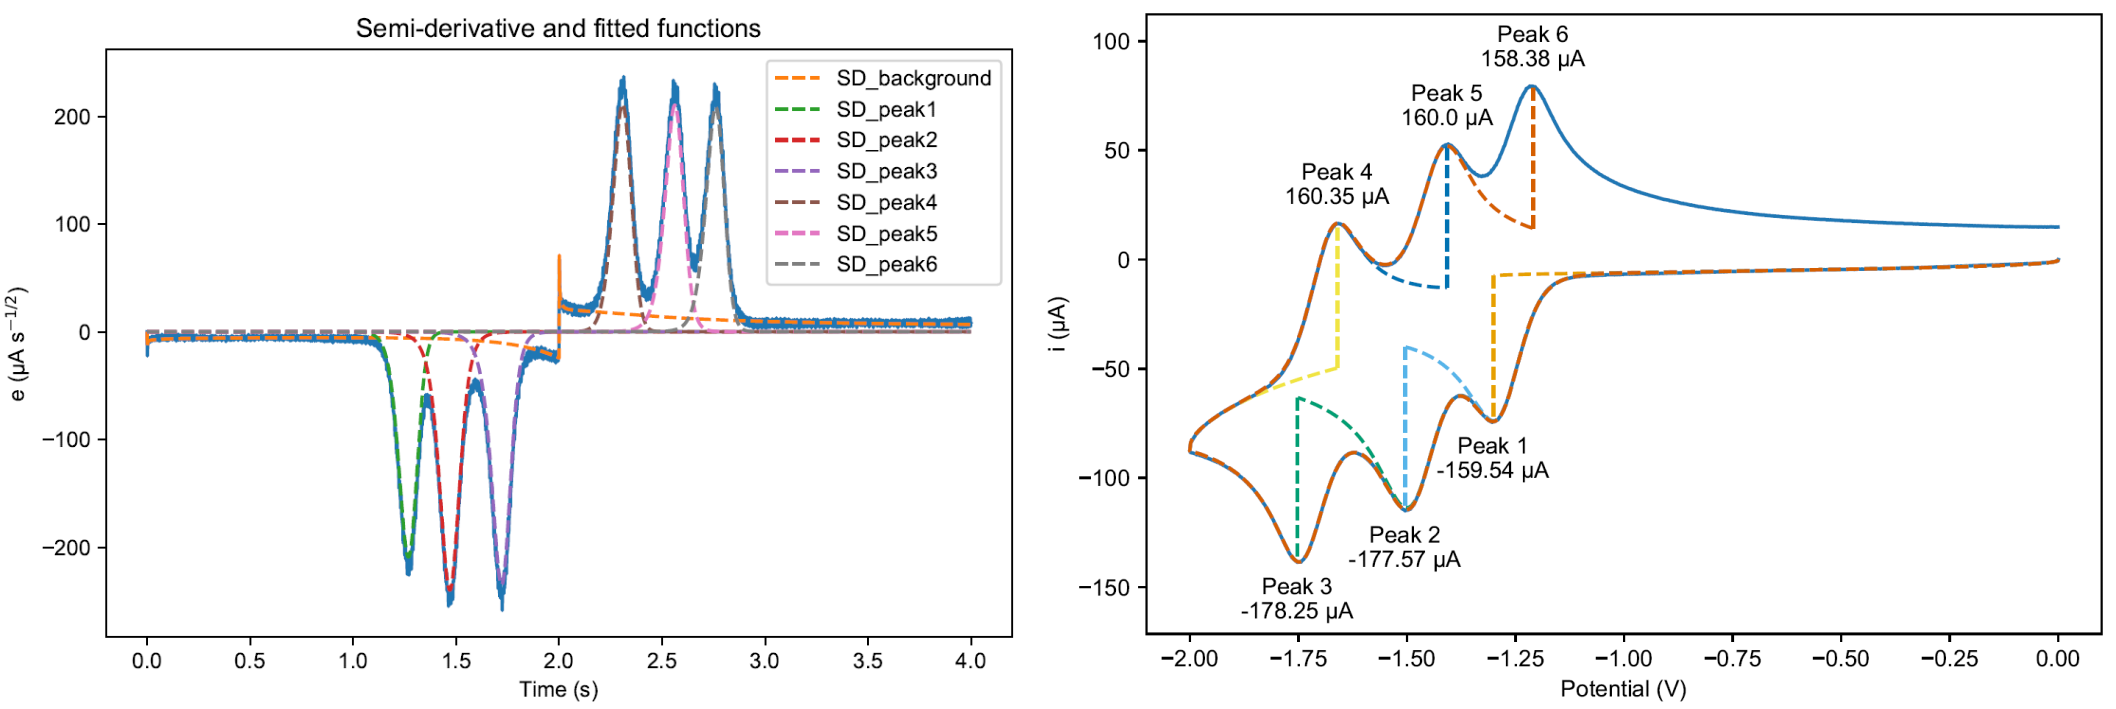
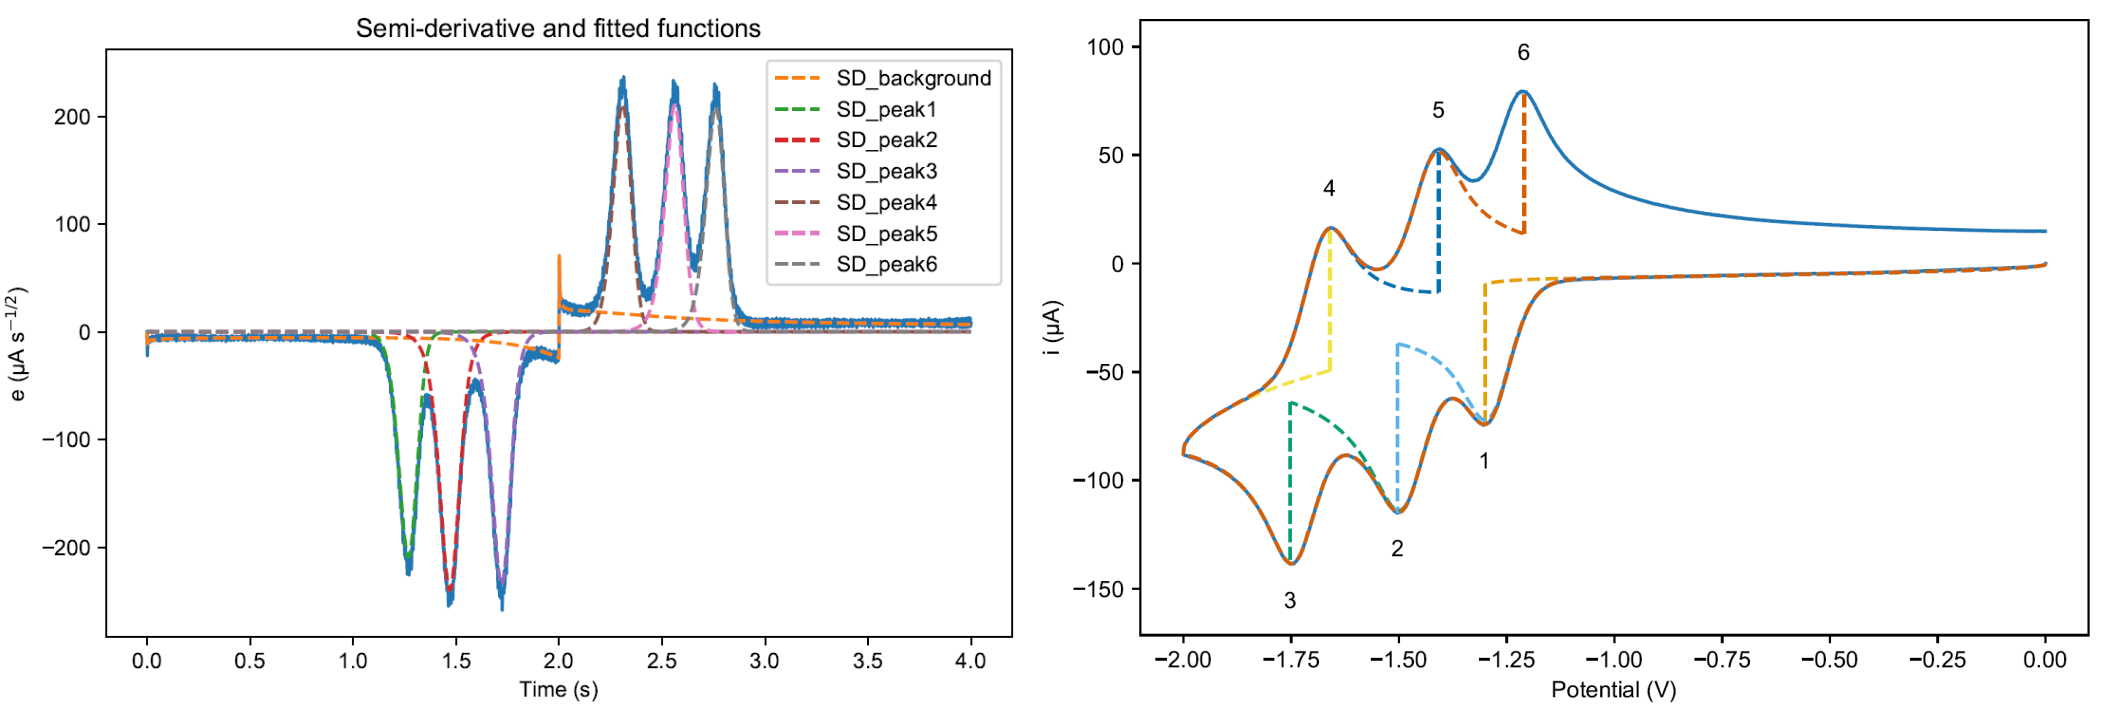
added manual peak picking and adjusted automatic peak detection, added E_p values to summary pdf, adjusted pdf report formatting, fixed about section hyperlink, misc. fixes and formatting on output reports

diff --git a/source/fitter.py b/source/fitter.py
@@ -1,11 +1,14 @@
-import os
+import time as time_module
 import numpy as np
 import pandas as pd
 import matplotlib.pyplot as plt
+import library
+from PyQt5.QtWidgets import QApplication
 from lmfit import models, Parameters
 from scipy.signal import find_peaks
 from scipy.special import loggamma, betaln, gamma
-from library import build_piecewise, CV, diff_int, pdf_summary, xlsx_summary
+
+# from library import build_piecewise, CV, diff_int, pdf_summary, peak_finder_auto, peak_finder_manual, xlsx_summary
 
 plt.rcParams["font.family"] = "sans-serif"
 plt.rcParams["font.sans-serif"] = ["Arial"]
@@ -14,7 +17,7 @@ plt.rcParams["font.sans-serif"] = ["Arial"]
 def fitter(userinput_dict):
     # CV file reading and data preparation
     print(f"\nReading CV data: {userinput_dict['filename']}")
-    cv = CV(userinput_dict)
+    cv = library.CV(userinput_dict)
     scan_rate = (cv.dataframe["E"][100] - cv.dataframe["E"][0]) / cv.dataframe["Time"][
         100
     ]
@@ -23,7 +26,7 @@ def fitter(userinput_dict):
     time = np.array(cv.dataframe["Time"])
     potential = np.array(cv.dataframe["E"])
     current = np.array(cv.dataframe["I"])
-    transform = diff_int(time, current, 1 / 2)
+    transform = library.diff_int(time, current, 1 / 2)
 
     # setup list of t discontinuities in E'(t) for CPE summation func
     t_discs = [0]
@@ -35,8 +38,8 @@ def fitter(userinput_dict):
         CPE_current = np.zeros_like(time)
         if any(key.startswith("Q") for key in params):
             # create piecewise constant Q and alpha arrays
-            Q_t = build_piecewise(time, t_discs, params, "Q")
-            alpha_t = build_piecewise(time, t_discs, params, "alpha")
+            Q_t = library.build_piecewise(time, t_discs, params, "Q")
+            alpha_t = library.build_piecewise(time, t_discs, params, "alpha")
 
             n_seg = len(t_discs) - 1
             k = 1
@@ -62,7 +65,7 @@ def fitter(userinput_dict):
         if "i0" in params:
             bkg_electrolysis += params["i0"] * np.exp(params["k"] * potential)
 
-        return diff_int(time, bkg_electrolysis + CPE_current, 1 / 2)
+        return library.diff_int(time, bkg_electrolysis + CPE_current, 1 / 2)
 
     # create params for background func
     sign = (
@@ -86,7 +89,7 @@ def fitter(userinput_dict):
         subset_params.add(
             "i0", value=sign * 1e-3, min=min(i0_params), max=max(i0_params)
         )
-        subset_params.add("k", value=sign * 1, min=min(k_params), max=max(k_params))
+        subset_params.add("k", value=sign * 1e-3, min=min(k_params), max=max(k_params))
 
     # subset creation
     idx_range1 = int(0.1 / cv.V_per_index)
@@ -122,18 +125,22 @@ def fitter(userinput_dict):
     model = models.Model(SD_background)
     params = subset_result.params
 
-    # peak detection and model update for each peak
-    width_param = int(0.06 / cv.V_per_index)
-    SD_peaks = find_peaks(
-        abs(transform),
-        width=width_param,
-        prominence=2,
-        height=max(abs(transform)) * 0.05,
-    )[
-        0
-    ]  # abs used to find -ve peaks and +ve peaks
+    # PEAK DETECTION
+    if userinput_dict["peak_detection"] == "Automatic":
+        bkg = SD_background(time, **params)
+        width_param = int(0.03 / cv.V_per_index)
+        SD_peaks = library.peak_finder_auto(transform, bkg, width_param)
+        print(f"{len(SD_peaks)} peaks detected")
 
-    # create empty peak model for scan
+    else:
+        SD_peaks = library.peak_finder_manual(cv, transform)
+
+        # prevents fitt.py from continuing while user selecting peaks
+        while not library.manual_picking_finished:
+            QApplication.processEvents()
+            time_module.sleep(0.01)
+
+    # MODEL UPDATE FROM PEAK LIST
     skew_0 = 0
     expon_0 = 1.5
     peak_counter = 0
@@ -173,7 +180,7 @@ def fitter(userinput_dict):
             peak_counter += 1
         except:
             pass
-    print(f"{len(SD_peaks)} peaks detected")
+
     print("Fitting total model")
     result = model.fit(transform, params, x=time, max_nfev=500, method="least_squares")
 
@@ -199,7 +206,7 @@ def fitter(userinput_dict):
     baseline_df["I"] = cv.dataframe["I"]
 
     for comp in list(components.keys())[::-1]:
-        current_comp = diff_int(time, components[comp], -1 / 2)
+        current_comp = library.diff_int(time, components[comp], -1 / 2)
         comp_name = comp.removeprefix("SD_")
         comp_name = comp_name.removesuffix("_")
         df.insert(0, comp_name, current_comp)
@@ -207,21 +214,21 @@ def fitter(userinput_dict):
     # Baseline creation for each peak
     b_counter = 1
     ip_list = []
+    Ep_list = []
     for comp in components:
         if "background" in comp:
             continue
         baseline = result.best_fit - components[comp]
-        baseline = diff_int(time, baseline, -1 / 2)
+        baseline = library.diff_int(time, baseline, -1 / 2)
         # removes baseline after peak of interest
-        idx_p = np.argmax(abs(diff_int(time, components[comp], -1 / 2)))
+        idx_p = np.argmax(abs(library.diff_int(time, components[comp], -1 / 2)))
+        Ep_list.append(potential[idx_p])
         baseline[idx_p:] = "NaN"
-
         baseline_df[f"Peak {b_counter} baseline"] = baseline
-
         ip_list.append(components[comp][idx_p])
         b_counter += 1
 
-    df.insert(0, "total_fit", diff_int(time, result.best_fit, -1 / 2))
+    df.insert(0, "total_fit", library.diff_int(time, result.best_fit, -1 / 2))
     df.insert(0, "I", cv.dataframe["I"])
     df.insert(0, "E", cv.dataframe["E"])
     df.insert(0, "Time", cv.dataframe["Time"])
@@ -235,10 +242,10 @@ def fitter(userinput_dict):
 
     # XLSX
     if userinput_dict["xlsx"]:
-        xlsx_summary(userinput_dict, name, df, baseline_df, cv, len(components))
+        library.xlsx_summary(userinput_dict, name, df, baseline_df, cv, len(components))
 
     # PDF
-    pdf_summary(userinput_dict, name, ip_list, cv, result, baseline_df)
+    library.pdf_summary(userinput_dict, name, ip_list, Ep_list, cv, result, baseline_df)
 
     print(f"Reports saved with name: {name}")
     return "Program ran successfully."

diff --git a/source/library.py b/source/library.py
@@ -2,9 +2,10 @@ import pandas as pd
 import numpy as np
 import matplotlib.pyplot as plt
 import textwrap
-from scipy.signal import find_peaks
+from scipy.signal import find_peaks, medfilt
 from scipy.special import gamma
 from matplotlib.backends.backend_pdf import PdfPages
+from matplotlib.widgets import Button
 
 
 def build_piecewise(time, t_discs, params, prefix):
@@ -272,7 +273,7 @@ def diff_int(x, y, q):
     return quotient_array * summation_array
 
 
-def pdf_summary(userinput_dict, name, ip_list, cv, result, baseline_df):
+def pdf_summary(userinput_dict, name, ip_list, Ep_list, cv, result, baseline_df):
     with PdfPages(f"{userinput_dict['output_dir']}/{name}.pdf") as pdf:
         # unpack inputs
         potential = np.array(cv.dataframe["E"])
@@ -323,11 +324,7 @@ def pdf_summary(userinput_dict, name, ip_list, cv, result, baseline_df):
                 potential[idx_ip], base[-1], current[idx_ip], color=colour, ls="dashed"
             )
 
-            ip_label = (
-                f"Peak {counter+1}\n"
-                + str(round(ip_list[counter], 2))
-                + f" {cv.scale_prefix}A"
-            )
+            ip_label = f"{counter+1}"
             ip_label_offset = (
                 abs(ip_list[counter])
                 / ip_list[counter]
@@ -347,8 +344,8 @@ def pdf_summary(userinput_dict, name, ip_list, cv, result, baseline_df):
         if len(ip_list) > 0:
             table_data = []
             for i, val in enumerate(ip_list, start=1):
-                name = f"Peak {i}"
-                table_data.append([name, round(val, 2)])
+                name = f"{i}"
+                table_data.append([name, round(val, 2), round(Ep_list[i - 1], 3)])
             ax_table = axs[1]
             ax_table.axis("off")
 
@@ -365,10 +362,16 @@ def pdf_summary(userinput_dict, name, ip_list, cv, result, baseline_df):
             # Table
             table = ax_table.table(
                 cellText=table_data,
-                colLabels=["Peak no.", f"i ({cv.scale_prefix}A)"],
+                colLabels=["Peak no.", f"i$_p$ ({cv.scale_prefix}A)", r"E$_p$ (V)"],
                 cellLoc="center",
                 loc="center",
             )
+
+            # Bold column headings
+            for (row, col), cell in table.get_celld().items():
+                if row == 0:  # row 0 = header row
+                    cell.set_text_props(fontweight="bold")
+
             table.auto_set_font_size(False)
             table.set_fontsize(9)
             table.scale(0.8, 1.4)
@@ -455,6 +458,88 @@ def pdf_summary(userinput_dict, name, ip_list, cv, result, baseline_df):
 
             pdf.savefig(fig, dpi=300)
             plt.close(fig)
+
+
+def peak_finder_auto(y, bkg, width):
+
+    # smoothing for transient spikes
+    transform_smoothed = medfilt(y, kernel_size=7)
+
+    prom = abs(y).max() * 0.02
+    pos_peaks = find_peaks(
+        transform_smoothed, prominence=prom, height=bkg, width=width
+    )[0]
+
+    neg_peaks = find_peaks(
+        -transform_smoothed, prominence=prom, height=bkg, width=width
+    )[0]
+
+    peak_array = np.sort(np.concatenate((pos_peaks, neg_peaks)))
+    return peak_array
+
+
+manual_picking_finished = False
+
+
+def peak_finder_manual(cv, y):
+    global manual_picking_finished
+    manual_picking_finished = False
+
+    x = np.array(cv.dataframe["Time"])
+
+    fig, ax = plt.subplots()
+    fig.canvas.manager.set_window_title("Manual Peak Selection")
+    ax.plot(x, y, lw=1.2)
+    ax.set_title(
+        "Left-click: add peak   |   Right-click: delete peak\n"
+        "Close this window when finished"
+    )
+    ax.set_xlabel("Time (s)")
+    ax.set_ylabel(rf"e ({cv.scale_prefix}A s$^{{-1/2}}$)")
+
+    peaks = []
+    markers = []
+
+    def onclick(event):
+        if event.inaxes != ax or event.xdata is None:
+            return
+
+        # prevents peak assignment when using zoom or panning tools
+        toolbar = fig.canvas.manager.toolbar
+        if toolbar.mode != "":
+            return
+
+        # nearest data index to the click
+        click_idx = int(np.argmin(np.abs(x - event.xdata)))
+
+        # add marker with left click
+        if event.button == 1:
+            peaks.append(click_idx)
+            (m,) = ax.plot(x[click_idx], y[click_idx], "ro", markersize=6)
+            markers.append(m)
+            fig.canvas.draw_idle()
+            return
+
+        # remove nearest marker with right click
+        if event.button == 3 and peaks:
+            distances = [abs(pi - click_idx) for pi in peaks]
+            nearest_idx = int(np.argmin(distances))
+            del peaks[nearest_idx]
+            marker = markers.pop(nearest_idx)
+            marker.remove()
+            fig.canvas.draw_idle()
+
+    cid = fig.canvas.mpl_connect("button_press_event", onclick)
+
+    def on_close(event):
+        global manual_picking_finished
+        fig.canvas.mpl_disconnect(cid)
+        manual_picking_finished = True
+
+    fig.canvas.mpl_connect("close_event", on_close)
+
+    plt.show(block=False)
+    return peaks
 
 
 def xlsx_summary(userinput_dict, name, df, baseline_df, cv, n_components):
@@ -631,7 +716,7 @@ def xlsx_summary(userinput_dict, name, df, baseline_df, cv, n_components):
             )
             t_chart.set_y_axis(
                 {
-                    "name": f"i ({cv.scale_prefix}A s^(-1/2))",
+                    "name": f"e ({cv.scale_prefix}A s^(-1/2))",
                     "label_position": "low",
                 }
             )
@@ -664,7 +749,7 @@ def xlsx_summary(userinput_dict, name, df, baseline_df, cv, n_components):
             )
             E_chart.set_y_axis(
                 {
-                    "name": f"i ({cv.scale_prefix}A s^(-1/2))",
+                    "name": f"e ({cv.scale_prefix}A s^(-1/2))",
                     "label_position": "low",
                 }
             )

diff --git a/source/gui.py b/source/gui.py
@@ -93,6 +93,19 @@ class MainWindow(QMainWindow):
         cap_group.setLayout(cap_layout)
         layout.addWidget(cap_group)
 
+        # Peak picking group
+        peak_group = QGroupBox("Peak detection")
+        peak_layout = QVBoxLayout()
+        self.peak_button_group = QButtonGroup(self)
+        for i, model in enumerate(["Automatic", "Manual"]):
+            btn = QRadioButton(model)
+            if i == 0:
+                btn.setChecked(True)
+            self.peak_button_group.addButton(btn)
+            peak_layout.addWidget(btn)
+        peak_group.setLayout(peak_layout)
+        layout.addWidget(peak_group)
+
         # Misc options
         misc_group = QGroupBox("Misc.")
         misc_layout = QVBoxLayout()
@@ -144,6 +157,7 @@ class MainWindow(QMainWindow):
             "output_dir": self.output_dir,
             "name": self.output_name_input.text(),
             "capacitance_model": self.cap_button_group.checkedButton().text(),
+            "peak_detection": self.peak_button_group.checkedButton().text(),
             "bkg_exp": self.misc_check1.isChecked(),
             "csv": self.misc_check2.isChecked(),
             "xlsx": self.misc_check3.isChecked(),
@@ -176,9 +190,9 @@ class MainWindow(QMainWindow):
         QMessageBox.information(
             self,
             "About",
-            "Version: 1.0.1 revised on 5/11/2025<br/>"
+            "Version 1.1.0 (Released 24/11/2025)<br/>"
             + "Semi-derivative Fitter was created by David S. Macedo and Conor F. Hogan.<br/><br/>"
-            + "Source code and additional documentation can be found at <a href='www.github.com/davedavedavem/diffusional-fitter'>www.github.com/davedavedavem/SD-fitter</a><br/><br/>",
+            + "Source code and additional documentation can be found at <a href='www.github.com/davedavedavem/SD-fitter'>www.github.com/davedavedavem/SD-fitter</a><br/><br/>",
         )
 
 

diff --git a/CHANGELOG.md b/CHANGELOG.md
@@ -1,3 +1,16 @@
+<a name="v1.1.0"></a>
+# v1.1.0 - 2025-11-24
+## Added features and improvements
+- Added option for manual peak picking in semi-derivative
+- Adjusted automatic peak detection settings
+- Added E<sub>p</sub> column in PDF report
+- Tidied peak labels in PDF report
+
+## Fixes
+- Fixed incorrect y-axis labels on some XSLX plots
+- Fixed link in "About" section sending to incorrect URL
+
+
 <a name="v1.0.1"></a>
-### v.1.0.1 - 2025-11-05
+# v1.0.1 - 2025-11-05
 - first public release
